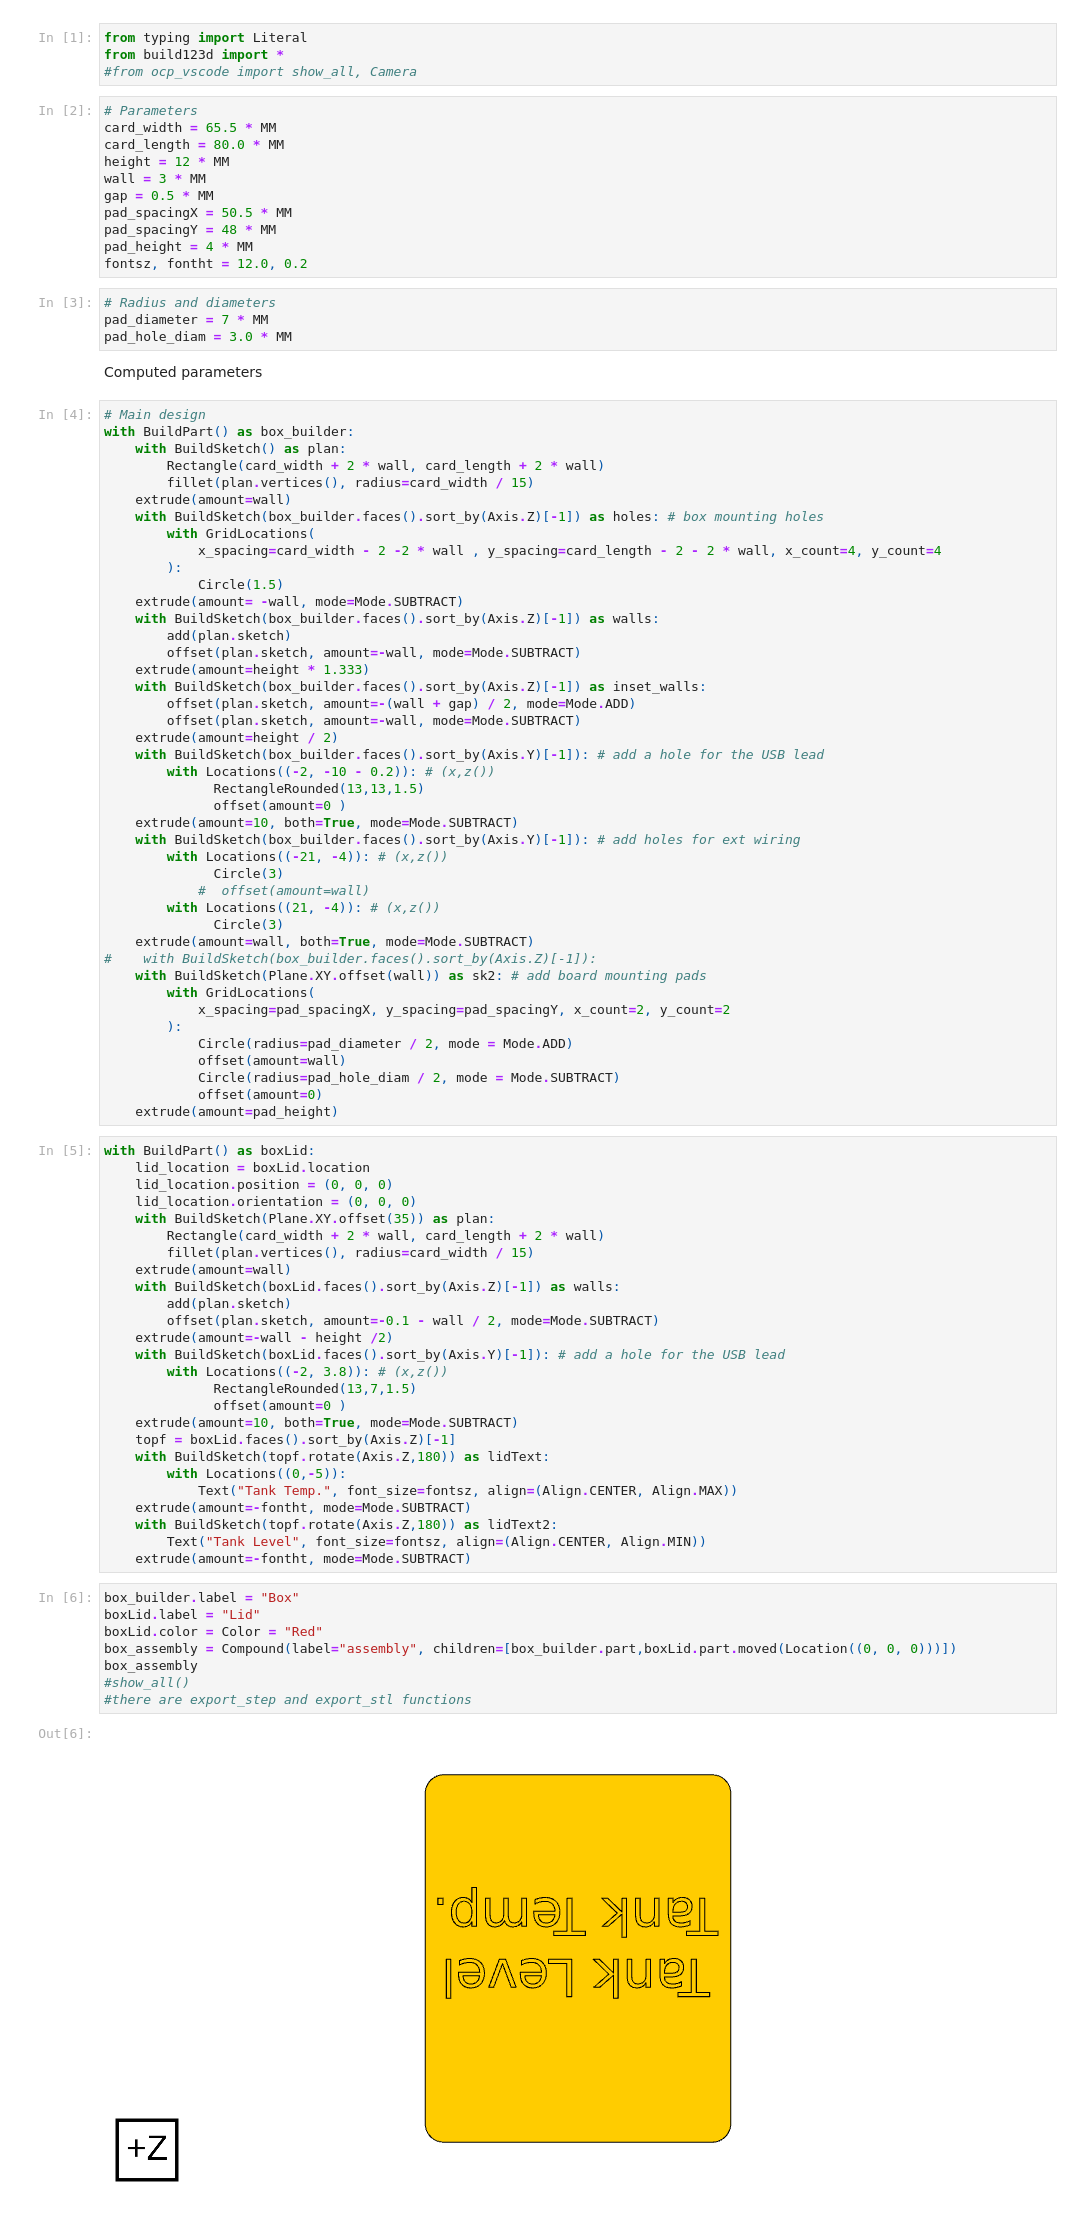
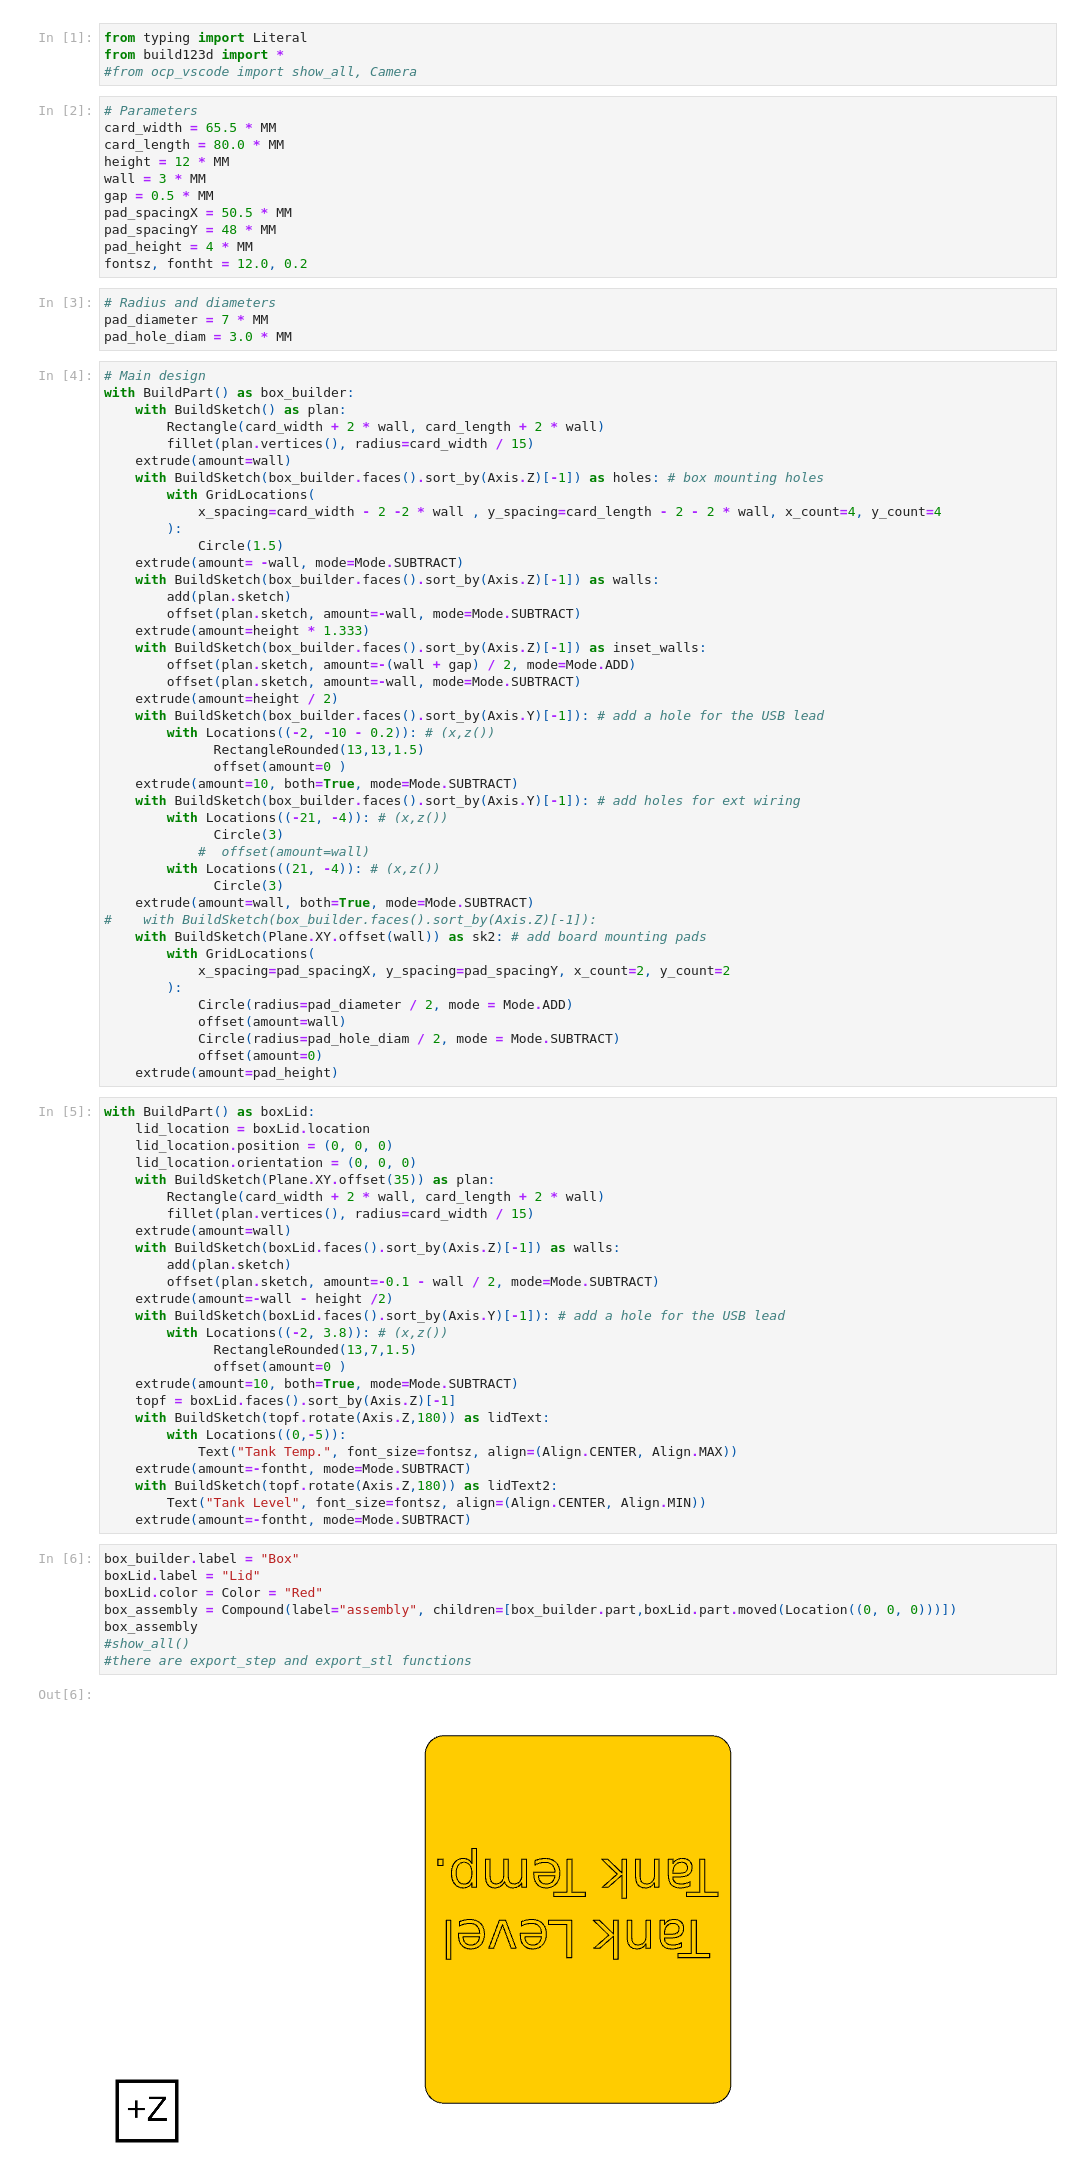
github action 12

diff --git a/generated_outputs/001-sacrificial-table.html b/generated_outputs/001-sacrificial-table.html
@@ -7510,7 +7510,7 @@ a.anchor-link {
 </style>
 <!-- End of mermaid configuration --></head>
 <body class="jp-Notebook" data-jp-theme-light="true" data-jp-theme-name="JupyterLab Light">
-<main><div class="jp-Cell jp-CodeCell jp-Notebook-cell jp-mod-noOutputs" id="cell-id=83617570">
+<main><div class="jp-Cell jp-CodeCell jp-Notebook-cell jp-mod-noOutputs" id="cell-id=f7e56aa4">
 <div class="jp-Cell-inputWrapper" tabindex="0">
 <div class="jp-Collapser jp-InputCollapser jp-Cell-inputCollapser">
 </div>
@@ -7525,7 +7525,7 @@ a.anchor-link {
 </div>
 </div>
 </div>
-</div><div class="jp-Cell jp-CodeCell jp-Notebook-cell jp-mod-noOutputs" id="cell-id=87d591fd">
+</div><div class="jp-Cell jp-CodeCell jp-Notebook-cell jp-mod-noOutputs" id="cell-id=f7419419">
 <div class="jp-Cell-inputWrapper" tabindex="0">
 <div class="jp-Collapser jp-InputCollapser jp-Cell-inputCollapser">
 </div>
@@ -7542,7 +7542,7 @@ a.anchor-link {
 </div>
 </div>
 </div>
-</div><div class="jp-Cell jp-CodeCell jp-Notebook-cell jp-mod-noOutputs" id="cell-id=976f8836">
+</div><div class="jp-Cell jp-CodeCell jp-Notebook-cell jp-mod-noOutputs" id="cell-id=3efd44ab">
 <div class="jp-Cell-inputWrapper" tabindex="0">
 <div class="jp-Collapser jp-InputCollapser jp-Cell-inputCollapser">
 </div>
@@ -7558,7 +7558,7 @@ a.anchor-link {
 </div>
 </div>
 </div>
-</div><div class="jp-Cell jp-CodeCell jp-Notebook-cell jp-mod-noOutputs" id="cell-id=9a36a3fa">
+</div><div class="jp-Cell jp-CodeCell jp-Notebook-cell jp-mod-noOutputs" id="cell-id=5585ffc1">
 <div class="jp-Cell-inputWrapper" tabindex="0">
 <div class="jp-Collapser jp-InputCollapser jp-Cell-inputCollapser">
 </div>
@@ -7573,7 +7573,7 @@ a.anchor-link {
 </div>
 </div>
 </div>
-</div><div class="jp-Cell jp-CodeCell jp-Notebook-cell jp-mod-noOutputs" id="cell-id=d4b1ca4f">
+</div><div class="jp-Cell jp-CodeCell jp-Notebook-cell jp-mod-noOutputs" id="cell-id=6a17d406">
 <div class="jp-Cell-inputWrapper" tabindex="0">
 <div class="jp-Collapser jp-InputCollapser jp-Cell-inputCollapser">
 </div>
@@ -7589,7 +7589,7 @@ a.anchor-link {
 </div>
 </div>
 </div>
-</div><div class="jp-Cell jp-CodeCell jp-Notebook-cell jp-mod-noOutputs" id="cell-id=5c7113f5">
+</div><div class="jp-Cell jp-CodeCell jp-Notebook-cell jp-mod-noOutputs" id="cell-id=2d76a65f">
 <div class="jp-Cell-inputWrapper" tabindex="0">
 <div class="jp-Collapser jp-InputCollapser jp-Cell-inputCollapser">
 </div>
@@ -7605,7 +7605,7 @@ a.anchor-link {
 </div>
 </div>
 </div>
-</div><div class="jp-Cell jp-CodeCell jp-Notebook-cell jp-mod-noOutputs" id="cell-id=6dd8dcdf">
+</div><div class="jp-Cell jp-CodeCell jp-Notebook-cell jp-mod-noOutputs" id="cell-id=a3a644db">
 <div class="jp-Cell-inputWrapper" tabindex="0">
 <div class="jp-Collapser jp-InputCollapser jp-Cell-inputCollapser">
 </div>
@@ -7630,7 +7630,7 @@ a.anchor-link {
 </div>
 </div>
 </div>
-</div><div class="jp-Cell jp-CodeCell jp-Notebook-cell" id="cell-id=16a995a8">
+</div><div class="jp-Cell jp-CodeCell jp-Notebook-cell" id="cell-id=234e7087">
 <div class="jp-Cell-inputWrapper" tabindex="0">
 <div class="jp-Collapser jp-InputCollapser jp-Cell-inputCollapser">
 </div>
@@ -7652,9 +7652,9 @@ a.anchor-link {
 <div class="jp-OutputArea jp-Cell-outputArea">
 <div class="jp-OutputArea-child jp-OutputArea-executeResult">
 <div class="jp-OutputPrompt jp-OutputArea-prompt">Out[8]:</div>
-<div class="jp-RenderedJavaScript jp-OutputArea-output jp-OutputArea-executeResult" data-mime-type="application/javascript" id="6fa25159-5a7b-45fc-9a75-d58ec7c3c3fd" tabindex="0">
+<div class="jp-RenderedJavaScript jp-OutputArea-output jp-OutputArea-executeResult" data-mime-type="application/javascript" id="925b2dbd-8a89-4ada-a365-09df44053ce9" tabindex="0">
 <script type="text/javascript">
-var element = document.getElementById('6fa25159-5a7b-45fc-9a75-d58ec7c3c3fd');
+var element = document.getElementById('925b2dbd-8a89-4ada-a365-09df44053ce9');
 
 
 function render(data, parent_element, ratio){
@@ -7799,7 +7799,7 @@ new Promise(
 </div>
 </div>
 </div>
-</div><div class="jp-Cell jp-CodeCell jp-Notebook-cell" id="cell-id=f7bb7444">
+</div><div class="jp-Cell jp-CodeCell jp-Notebook-cell" id="cell-id=29eed442">
 <div class="jp-Cell-inputWrapper" tabindex="0">
 <div class="jp-Collapser jp-InputCollapser jp-Cell-inputCollapser">
 </div>

diff --git a/generated_outputs/002-box-lid.html b/generated_outputs/002-box-lid.html
@@ -7510,7 +7510,7 @@ a.anchor-link {
 </style>
 <!-- End of mermaid configuration --></head>
 <body class="jp-Notebook" data-jp-theme-light="true" data-jp-theme-name="JupyterLab Light">
-<main><div class="jp-Cell jp-CodeCell jp-Notebook-cell jp-mod-noOutputs" id="cell-id=7ccf7e01">
+<main><div class="jp-Cell jp-CodeCell jp-Notebook-cell jp-mod-noOutputs" id="cell-id=7566ae20">
 <div class="jp-Cell-inputWrapper" tabindex="0">
 <div class="jp-Collapser jp-InputCollapser jp-Cell-inputCollapser">
 </div>
@@ -7526,7 +7526,7 @@ a.anchor-link {
 </div>
 </div>
 </div>
-</div><div class="jp-Cell jp-CodeCell jp-Notebook-cell jp-mod-noOutputs" id="cell-id=41b44aaf">
+</div><div class="jp-Cell jp-CodeCell jp-Notebook-cell jp-mod-noOutputs" id="cell-id=fbd13f04">
 <div class="jp-Cell-inputWrapper" tabindex="0">
 <div class="jp-Collapser jp-InputCollapser jp-Cell-inputCollapser">
 </div>
@@ -7549,7 +7549,7 @@ a.anchor-link {
 </div>
 </div>
 </div>
-</div><div class="jp-Cell jp-CodeCell jp-Notebook-cell jp-mod-noOutputs" id="cell-id=e7b1e52a">
+</div><div class="jp-Cell jp-CodeCell jp-Notebook-cell jp-mod-noOutputs" id="cell-id=1c1f93b7">
 <div class="jp-Cell-inputWrapper" tabindex="0">
 <div class="jp-Collapser jp-InputCollapser jp-Cell-inputCollapser">
 </div>
@@ -7565,18 +7565,7 @@ a.anchor-link {
 </div>
 </div>
 </div>
-</div>
-<div class="jp-Cell jp-MarkdownCell jp-Notebook-cell" id="cell-id=f9a537f6">
-<div class="jp-Cell-inputWrapper" tabindex="0">
-<div class="jp-Collapser jp-InputCollapser jp-Cell-inputCollapser">
-</div>
-<div class="jp-InputArea jp-Cell-inputArea"><div class="jp-InputPrompt jp-InputArea-prompt">
-</div><div class="jp-RenderedHTMLCommon jp-RenderedMarkdown jp-MarkdownOutput" data-mime-type="text/markdown">
-<p>Computed parameters</p>
-</div>
-</div>
-</div>
-</div><div class="jp-Cell jp-CodeCell jp-Notebook-cell jp-mod-noOutputs" id="cell-id=ec4e7166">
+</div><div class="jp-Cell jp-CodeCell jp-Notebook-cell jp-mod-noOutputs" id="cell-id=4f0a71f5">
 <div class="jp-Cell-inputWrapper" tabindex="0">
 <div class="jp-Collapser jp-InputCollapser jp-Cell-inputCollapser">
 </div>
@@ -7631,7 +7620,7 @@ a.anchor-link {
 </div>
 </div>
 </div>
-</div><div class="jp-Cell jp-CodeCell jp-Notebook-cell jp-mod-noOutputs" id="cell-id=bbf59713">
+</div><div class="jp-Cell jp-CodeCell jp-Notebook-cell jp-mod-noOutputs" id="cell-id=8166005b">
 <div class="jp-Cell-inputWrapper" tabindex="0">
 <div class="jp-Collapser jp-InputCollapser jp-Cell-inputCollapser">
 </div>
@@ -7669,7 +7658,7 @@ a.anchor-link {
 </div>
 </div>
 </div>
-</div><div class="jp-Cell jp-CodeCell jp-Notebook-cell" id="cell-id=038c6a98">
+</div><div class="jp-Cell jp-CodeCell jp-Notebook-cell" id="cell-id=9489b9a7">
 <div class="jp-Cell-inputWrapper" tabindex="0">
 <div class="jp-Collapser jp-InputCollapser jp-Cell-inputCollapser">
 </div>
@@ -7695,9 +7684,9 @@ a.anchor-link {
 <div class="jp-OutputArea jp-Cell-outputArea">
 <div class="jp-OutputArea-child jp-OutputArea-executeResult">
 <div class="jp-OutputPrompt jp-OutputArea-prompt">Out[6]:</div>
-<div class="jp-RenderedJavaScript jp-OutputArea-output jp-OutputArea-executeResult" data-mime-type="application/javascript" id="0f8ad721-711e-4009-9837-c5830c2f2594" tabindex="0">
+<div class="jp-RenderedJavaScript jp-OutputArea-output jp-OutputArea-executeResult" data-mime-type="application/javascript" id="20b5dce8-21ed-4740-b3c4-cbd8bbff40fd" tabindex="0">
 <script type="text/javascript">
-var element = document.getElementById('0f8ad721-711e-4009-9837-c5830c2f2594');
+var element = document.getElementById('20b5dce8-21ed-4740-b3c4-cbd8bbff40fd');
 
 
 function render(data, parent_element, ratio){

diff --git a/README.md b/README.md
@@ -3,5 +3,5 @@
 For instructions for how to setup VSCode and build123d environment, see 
 [here](https://github.com/microcontrollersig/build123fromscratch)
 
-001-sacrificial-table.py: [Live Demo](https://nbviewer.org/github/microcontrollersig/build123d-projects/blob/main/generated_outputs/001-sacrificial-table_executed.py) | [Source Code](https://github.com/microcontrollersig/build123d-projects/blob/main/projects/001-sacrificial-table.py)
-002-box-lid.py: [Live Demo](https://nbviewer.org/github/microcontrollersig/build123d-projects/blob/main/generated_outputs/002-box-lid_executed.py) | [Source Code](https://github.com/microcontrollersig/build123d-projects/blob/main/projects/002-box-lid.py)
+001-sacrificial-table.py: [Live Demo](https://nbviewer.org/github/microcontrollersig/build123d-projects/blob/main/generated_outputs/001-sacrificial-table_executed.ipynb) | [Source Code](https://github.com/microcontrollersig/build123d-projects/blob/main/projects/001-sacrificial-table.py)
+002-box-lid.py: [Live Demo](https://nbviewer.org/github/microcontrollersig/build123d-projects/blob/main/generated_outputs/002-box-lid_executed.ipynb) | [Source Code](https://github.com/microcontrollersig/build123d-projects/blob/main/projects/002-box-lid.py)
